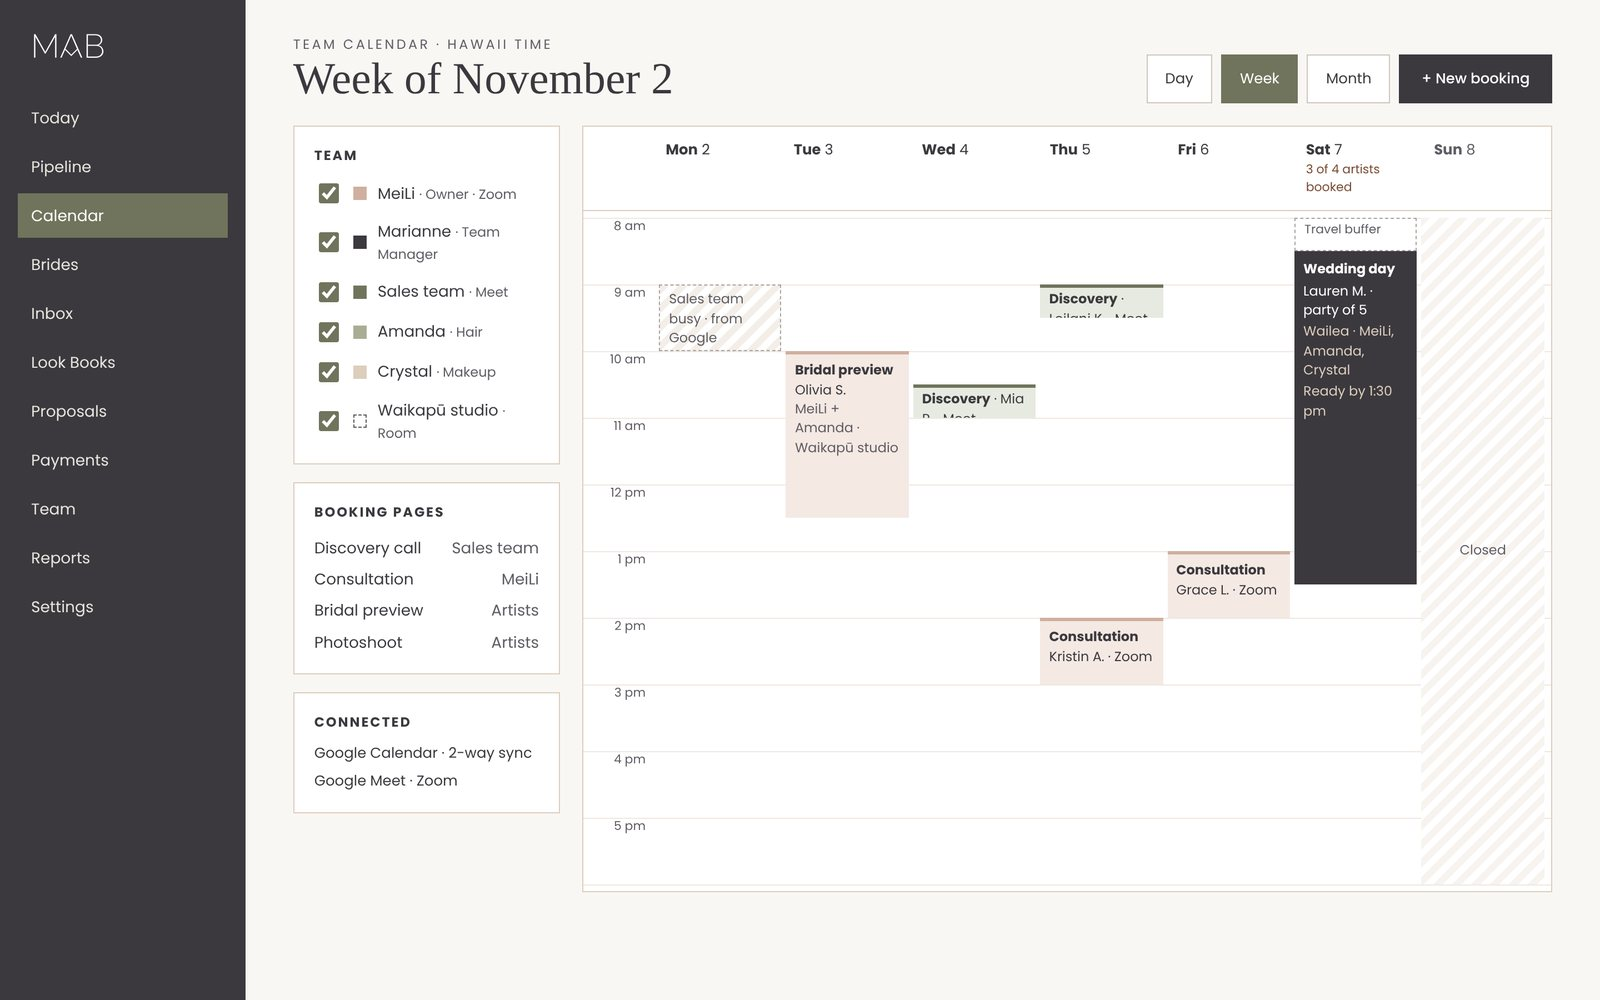
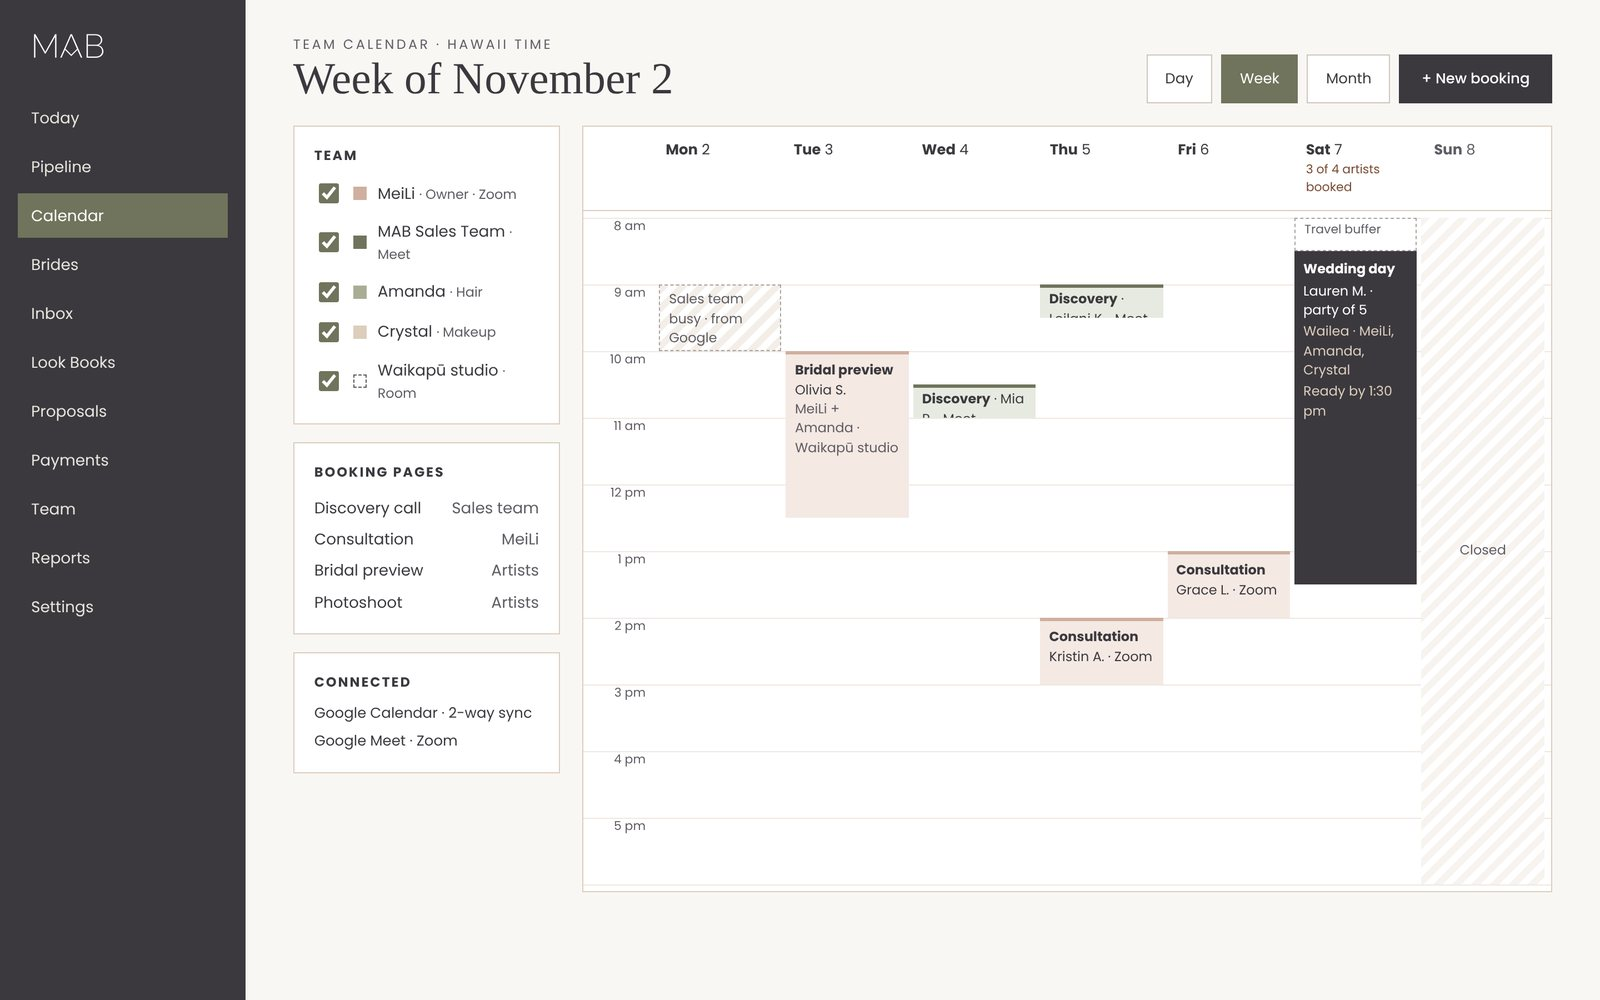
Replace Marianne with MAB Sales Team
Claude-Session: https://claude.ai/code/session_0185E79Wyb2SuWeG9f22u31R

Changed region(s): [[0.1875, 0.217, 0.3438, 0.806]]

diff --git a/index.html b/index.html
@@ -265,7 +265,7 @@ footer small{font-size:12px;letter-spacing:.2em;text-transform:uppercase;color:v
       <div class="module"><span class="tag">Sales</span><h3>AI call notes</h3><p>Discovery calls and consultations are recorded and summarized, so no detail from a conversation is lost.</p></div>
       <div class="module"><span class="tag">Sales</span><h3>Proposals, agreements, payments</h3><p>Proposals built from your packages and pricing rules, e-signature, the 50% retainer and balance reminders.</p></div>
       <div class="module"><span class="tag">Team</span><h3>Journey emails</h3><p>23 touchpoints from welcome to anniversary, in MAB's voice. Email only at launch, with texting ready to switch on later.</p></div>
-      <div class="module"><span class="tag">Team</span><h3>Team scheduling</h3><p>Logins for you, Marianne, your sales team and each artist. Google Meet and Zoom, two-way Google Calendar sync, studio booking and artist assignments.</p></div>
+      <div class="module"><span class="tag">Team</span><h3>Team scheduling</h3><p>Logins for you, the MAB Sales Team and each artist. Google Meet and Zoom, two-way Google Calendar sync, studio booking and artist assignments.</p></div>
       <div class="module"><span class="tag">Business</span><h3>Business dashboard</h3><p>Bookings by month, retainers collected, balances due, lead sources and which planners send you the most brides.</p></div>
     </div>
   </div>
@@ -275,14 +275,14 @@ footer small{font-size:12px;letter-spacing:.2em;text-transform:uppercase;color:v
   <div class="wrap">
     <div class="head">
       <p class="eyebrow">Your team</p>
-      <h2 id="team-h">Marianne runs the team from one place</h2>
-      <p class="lede">As Team Manager, Marianne schedules and assigns your artists, while each artist sees only her own weddings, on her phone.</p>
+      <h2 id="team-h">The MAB Sales Team runs your team from one place</h2>
+      <p class="lede">The MAB Sales Team schedules and assigns your artists, while each artist sees only her own weddings, on her phone.</p>
     </div>
     <div class="modules">
-      <div class="module"><span class="tag">Access</span><h3>The right view for each role</h3><p>You see everything. Marianne, as Team Manager, handles schedules, assignments and availability. Your sales team works with brides. Artists see only their own bookings and pay.</p></div>
-      <div class="module"><span class="tag">Profiles</span><h3>Artist profiles</h3><p>Services, islands, specialties such as extensions or airbrush, and working days, so Marianne can see who fits each wedding.</p></div>
-      <div class="module"><span class="tag">Availability</span><h3>Time off and capacity</h3><p>Artists request time off in the app and Marianne approves it. Each date's capacity updates, so no one books a day the team can't cover.</p></div>
-      <div class="module"><span class="tag">Scheduling</span><h3>Assignments</h3><p>Marianne assigns artists to each person in the party. Start times build back from the ready-by time, conflicts are flagged, and artists accept in the app.</p></div>
+      <div class="module"><span class="tag">Access</span><h3>The right view for each role</h3><p>You see everything. The MAB Sales Team works with brides and handles schedules, assignments and availability. Artists see only their own bookings and pay.</p></div>
+      <div class="module"><span class="tag">Profiles</span><h3>Artist profiles</h3><p>Services, islands, specialties such as extensions or airbrush, and working days, so the MAB Sales Team can see who fits each wedding.</p></div>
+      <div class="module"><span class="tag">Availability</span><h3>Time off and capacity</h3><p>Artists request time off in the app and the MAB Sales Team approves it. Each date's capacity updates, so no one books a day the team can't cover.</p></div>
+      <div class="module"><span class="tag">Scheduling</span><h3>Assignments</h3><p>The MAB Sales Team assigns artists to each person in the party. Start times build back from the ready-by time, conflicts are flagged, and artists accept in the app.</p></div>
       <div class="module"><span class="tag">Wedding day</span><h3>Day-of brief</h3><p>Two days before, each artist receives the bride's looks, timeline, room number and who she's working on.</p></div>
       <div class="module"><span class="tag">Business</span><h3>Pay and performance</h3><p>Earnings recorded per wedding, a monthly payout report per artist, and reviews linked to the artists who worked each wedding.</p></div>
       <div class="module"><span class="tag">Standards</span><h3>Training, later</h3><p>The future Academy can hold the MAB way: the Radiant ritual, kit checklists, products and onboarding for new artists.</p></div>
@@ -388,9 +388,9 @@ footer small{font-size:12px;letter-spacing:.2em;text-transform:uppercase;color:v
         <div class="q"><span class="n">4</span><label for="q4">Should every bride have both a discovery call and a consultation, or can elopements, bride-only and photoshoot inquiries go straight to a proposal?</label><textarea id="q4" data-q="Calls per bride"></textarea></div>
         <div class="q"><span class="n">5</span><label for="q5">When would you like to join personally: Radiant brides only, or above a certain party size or budget?</label><textarea id="q5" data-q="When MeiLi joins"></textarea></div>
         <div class="q"><span class="n">6</span><label for="q6">When a date is full, what should we offer: referrals to trusted artists, a waitlist, or both?</label><textarea id="q6" data-q="Full dates"></textarea></div>
-        <div class="q"><span class="n">7</span><label for="q7">Your website introduces Marianne, Amanda, Gena, Crystal, Jen and AmberLee. Who should have logins, which islands and services does each cover, and is each a contractor or employee, paid how per wedding?</label><textarea id="q7" data-q="Artist team"></textarea></div>
+        <div class="q"><span class="n">7</span><label for="q7">Your website introduces Amanda, Gena, Crystal, Jen and AmberLee. Who should have logins, which islands and services does each cover, and is each a contractor or employee, paid how per wedding?</label><textarea id="q7" data-q="Artist team"></textarea></div>
       </div>
-      <div class="q"><span class="n">8</span><label for="q16">Should Marianne, as Team Manager, schedule and assign artists on her own, or would you like to approve every assignment?</label><textarea id="q16" data-q="Marianne and assignments"></textarea></div>
+      <div class="q"><span class="n">8</span><label for="q16">Should the MAB Sales Team schedule and assign artists on its own, or would you like to approve every assignment?</label><textarea id="q16" data-q="Sales Team and assignments"></textarea></div>
         <div class="q"><span class="n">9</span><label for="q17">Should artists see the bride's full Look Book, or only her timeline and looks?</label><textarea id="q17" data-q="What artists see"></textarea></div>
       </div>
       <div class="qgroup">
@@ -462,7 +462,7 @@ footer small{font-size:12px;letter-spacing:.2em;text-transform:uppercase;color:v
       </fieldset>
       <fieldset class="need">
         <legend>Your team</legend>
-        <label><input type="checkbox"> Team list: name, email, role, services and islands for Marianne and each artist</label>
+        <label><input type="checkbox"> Team list: name, email, role, services and islands for the MAB Sales Team and each artist</label>
         <label><input type="checkbox"> Usual working days and blackout dates for each artist</label>
         <label><input type="checkbox"> How each artist is paid per service, per person and for travel</label>
         <label><input type="checkbox"> Headshots and short bios, for brides' portals and day-of introductions</label>
